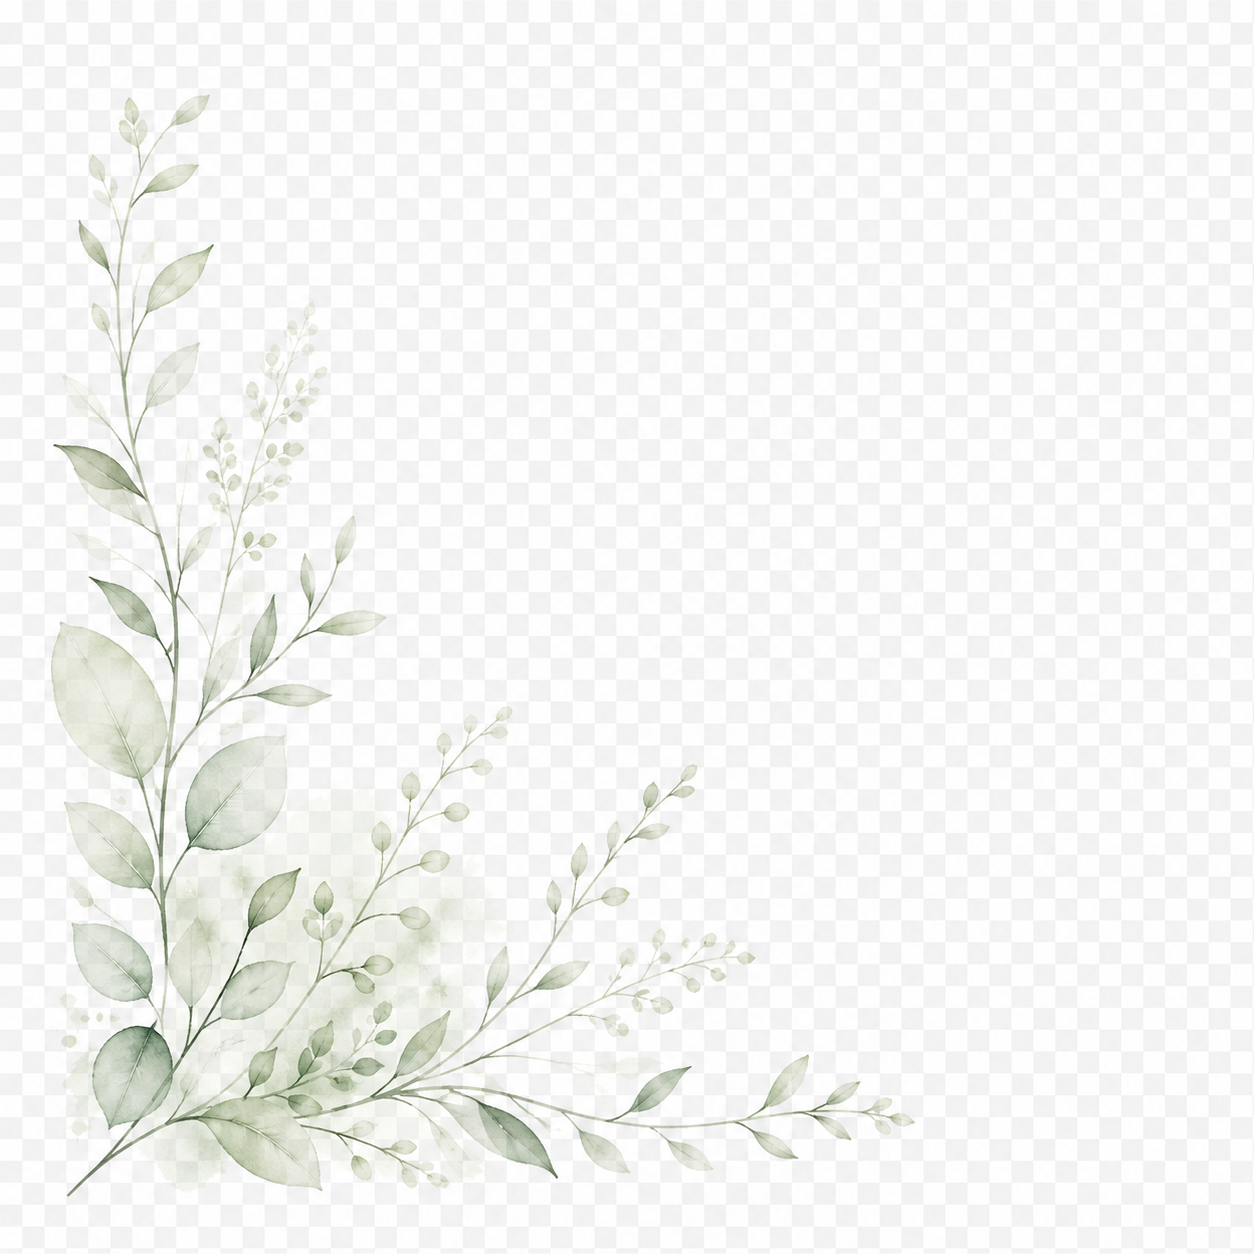
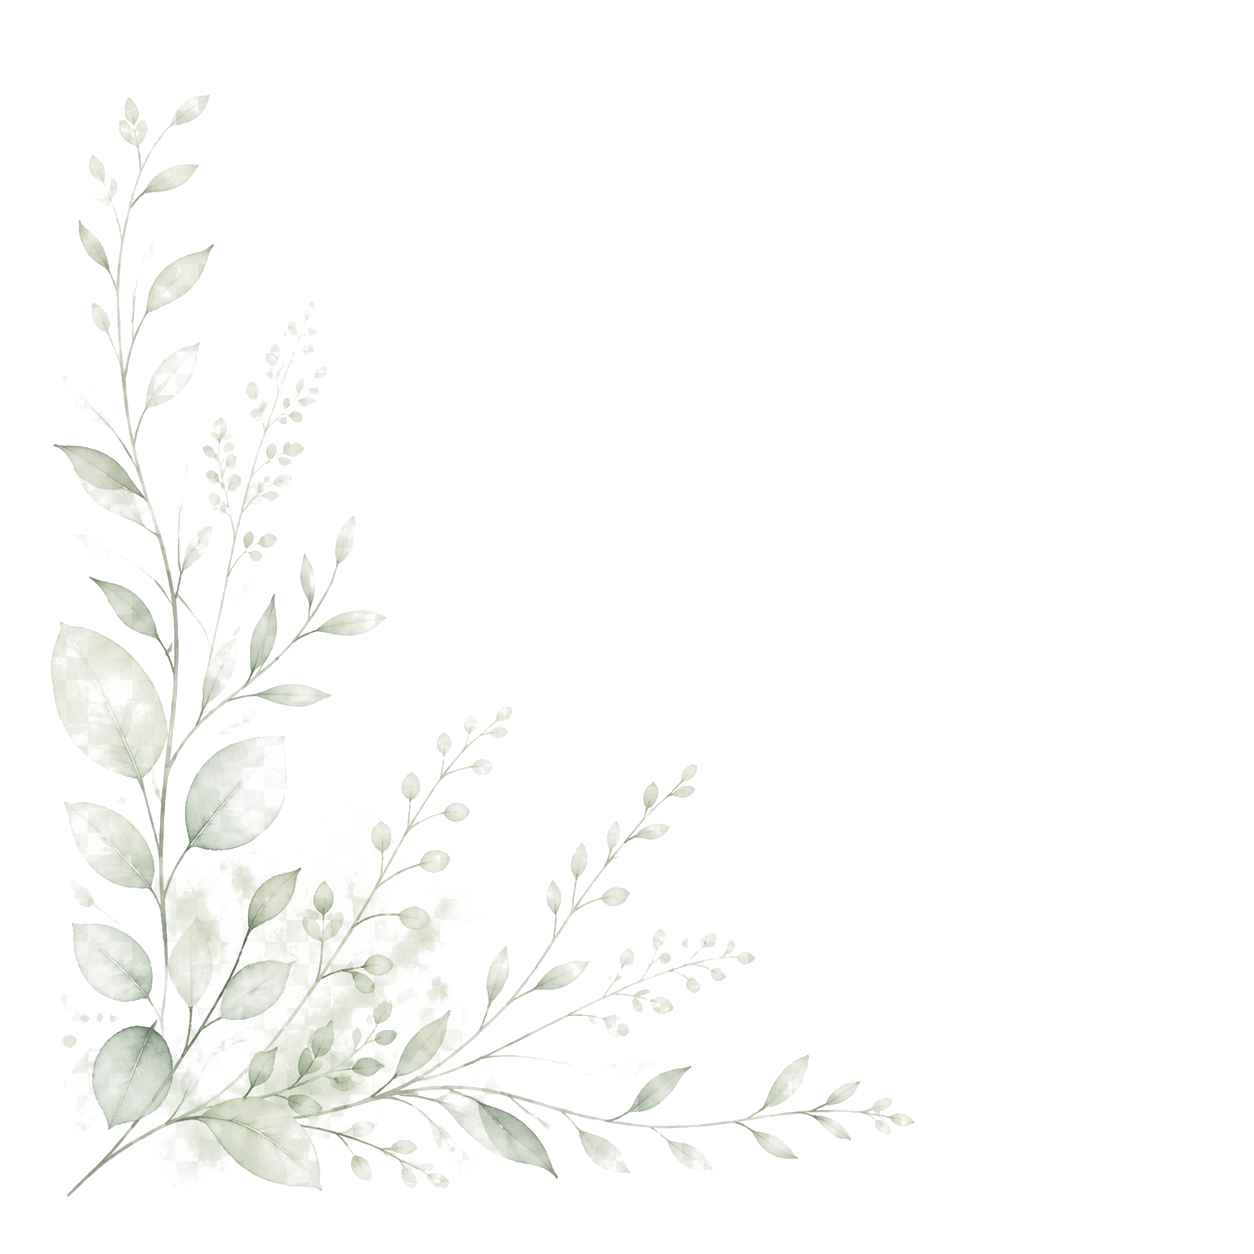
Refine note writing paper artwork and sidebar nav alignment

diff --git a/styles.css b/styles.css
@@ -618,16 +618,17 @@ input:focus, textarea:focus, select:focus {
 .note-content-field::after {
   content: "";
   position: absolute;
-  left: 16px;
-  bottom: 14px;
-  width: min(22%, 180px);
+  left: -12px;
+  bottom: -14px;
+  width: min(42%, 320px);
   aspect-ratio: 1;
   background: url("./assets/ui/note-paper-leaf-corner.png") left bottom / contain no-repeat;
-  opacity: 0.075;
+  opacity: 0.17;
   mix-blend-mode: multiply;
-  filter: saturate(0.72);
+  filter: saturate(0.82);
   pointer-events: none;
-  z-index: 1;
+  transform: translate(-4%, 5%);
+  z-index: 2;
 }
 #note-content {
   position: relative;
@@ -846,8 +847,10 @@ input:focus, textarea:focus, select:focus {
     font-size: 16px;
   }
   .note-content-field::after {
-    width: 136px;
-    opacity: 0.045;
+    left: -10px;
+    bottom: -10px;
+    width: 178px;
+    opacity: 0.11;
   }
   #note-prayer {
     height: 116px;
@@ -6105,12 +6108,22 @@ body:not(.auth-locked) .main {
     color: #325157;
     border-radius: 15px;
     padding: 11px 13px;
-    text-align: left;
-    display: grid;
-    grid-template-columns: 22px minmax(0, 1fr);
+    text-align: center;
+    display: flex;
+    justify-content: center;
     align-items: center;
-    gap: 12px;
+    gap: 10px;
     transition: 0.2s ease;
+  }
+
+  .desktop-sidebar-link .nav-icon,
+  .desktop-sidebar-link .desktop-sidebar-dot {
+    flex: 0 0 auto;
+  }
+
+  .desktop-sidebar-link > span:last-child {
+    flex: 0 1 auto;
+    min-width: 0;
   }
 
   .desktop-sidebar-link:hover {
@@ -6243,8 +6256,7 @@ body:not(.auth-locked) .main {
     }
 
     .desktop-sidebar-link {
-      grid-template-columns: 20px minmax(0, 1fr);
-      gap: 10px;
+      gap: 8px;
       padding: 9px 11px;
       border-radius: 13px;
     }
